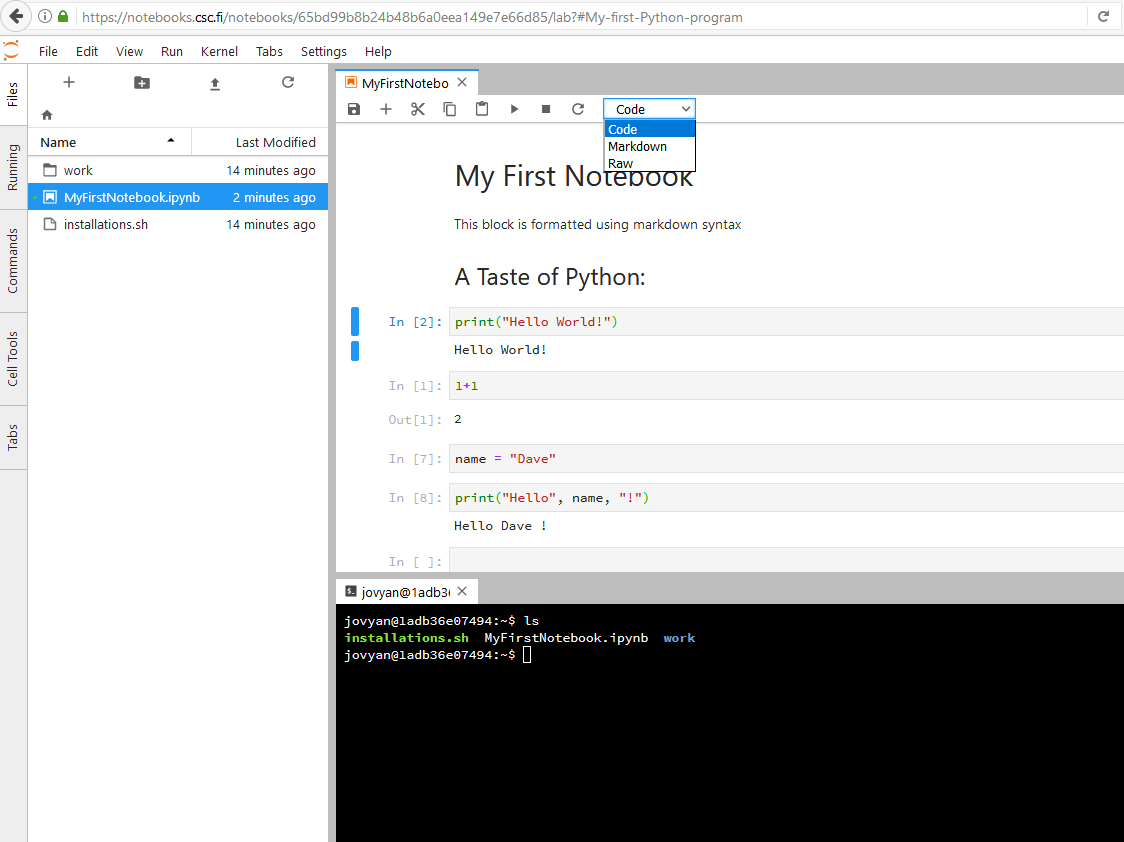
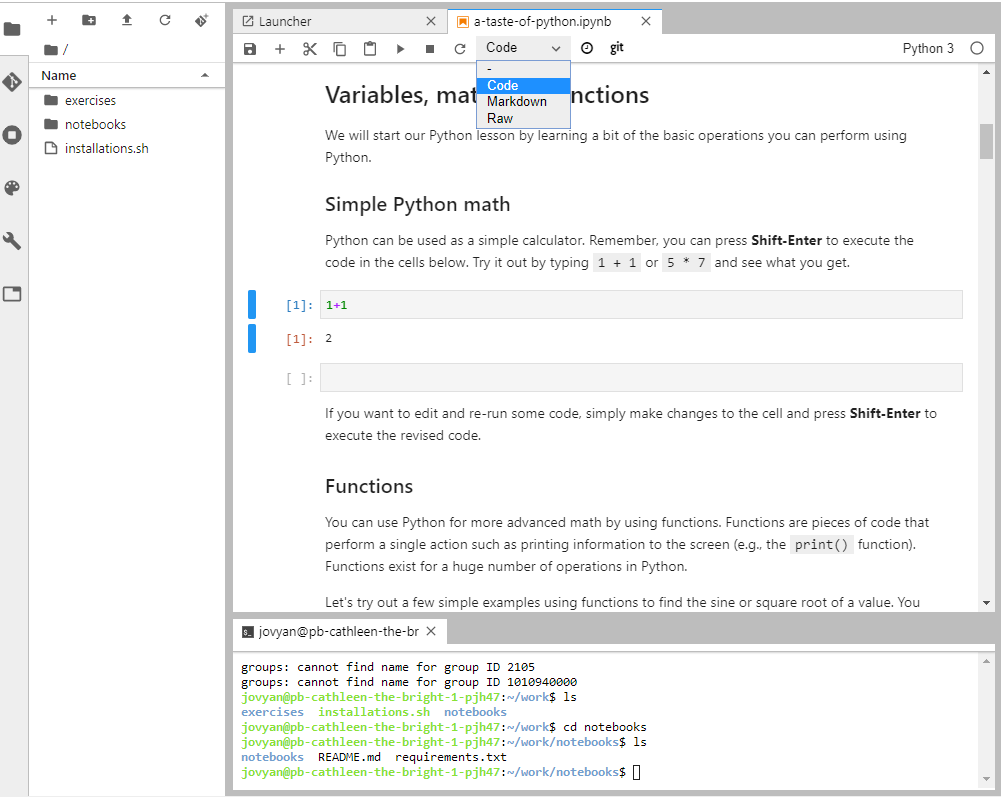
updated JupyterLab instructions and details

diff --git a/source/lessons/L1/course-environment-components.rst b/source/lessons/L1/course-environment-components.rst
@@ -21,6 +21,11 @@ Jupyter Notebooks are perfect for documenting a data science workflow in an inte
 
 We use JupyterLab/Jupyter Notebooks as the default programming environment during this course. All of the course materials are available in a JupyterLab setting via `cloud computing environments`_ (Binder or CSC Notebooks).
 
+.. figure:: img/Binder_launcher.png
+   :alt: Binder Jupyter Notebook
+   :width: 700px
+
+   Basic view of JupyterLab
 
 .. figure:: img/JupyterLab.png
    :alt: A Jupyter Notebook open in Jupyter Lab
@@ -61,16 +66,9 @@ Binder does not require the user to log in, you can just click on the link in th
 
 .. figure:: img/Binder_loading.png
    :alt: Binder loading
-   :width: 550px
+   :width: 700px
 
    Binder takes a few moments to load
-
-
-.. figure:: img/Binder_launcher.png
-   :alt: Binder Jupyter Notebook
-   :width: 550px
-
-   JupyterLab ready to be used in Binder
 
 Once the instance is ready, you can navigate to the lesson folders and start working with existing notebooks or create a new one.
 
@@ -99,11 +97,13 @@ CSC Notebooks is available only for students who are affiliated with Finnish uni
     2. Click ``Launch new`` on the Dashboard
     3. Wait. It might take a few moments for the instance to launch
     4. Click ``Open in browser`` once the instance is ready
+    5. If you are asked to ``Click to copy password & proceed``, then click on the button, and paste the password on the following page
 
 .. figure:: img/CSC_launch_new.png
    :alt: Launch new Jupyter Lab instance
 
-**Remember to save your work! The instance is temporary.**
+**Remember to always push your changes to GitHub, when working with the Exercises!**
+
 
 Using your own computer
 --------------------------------
